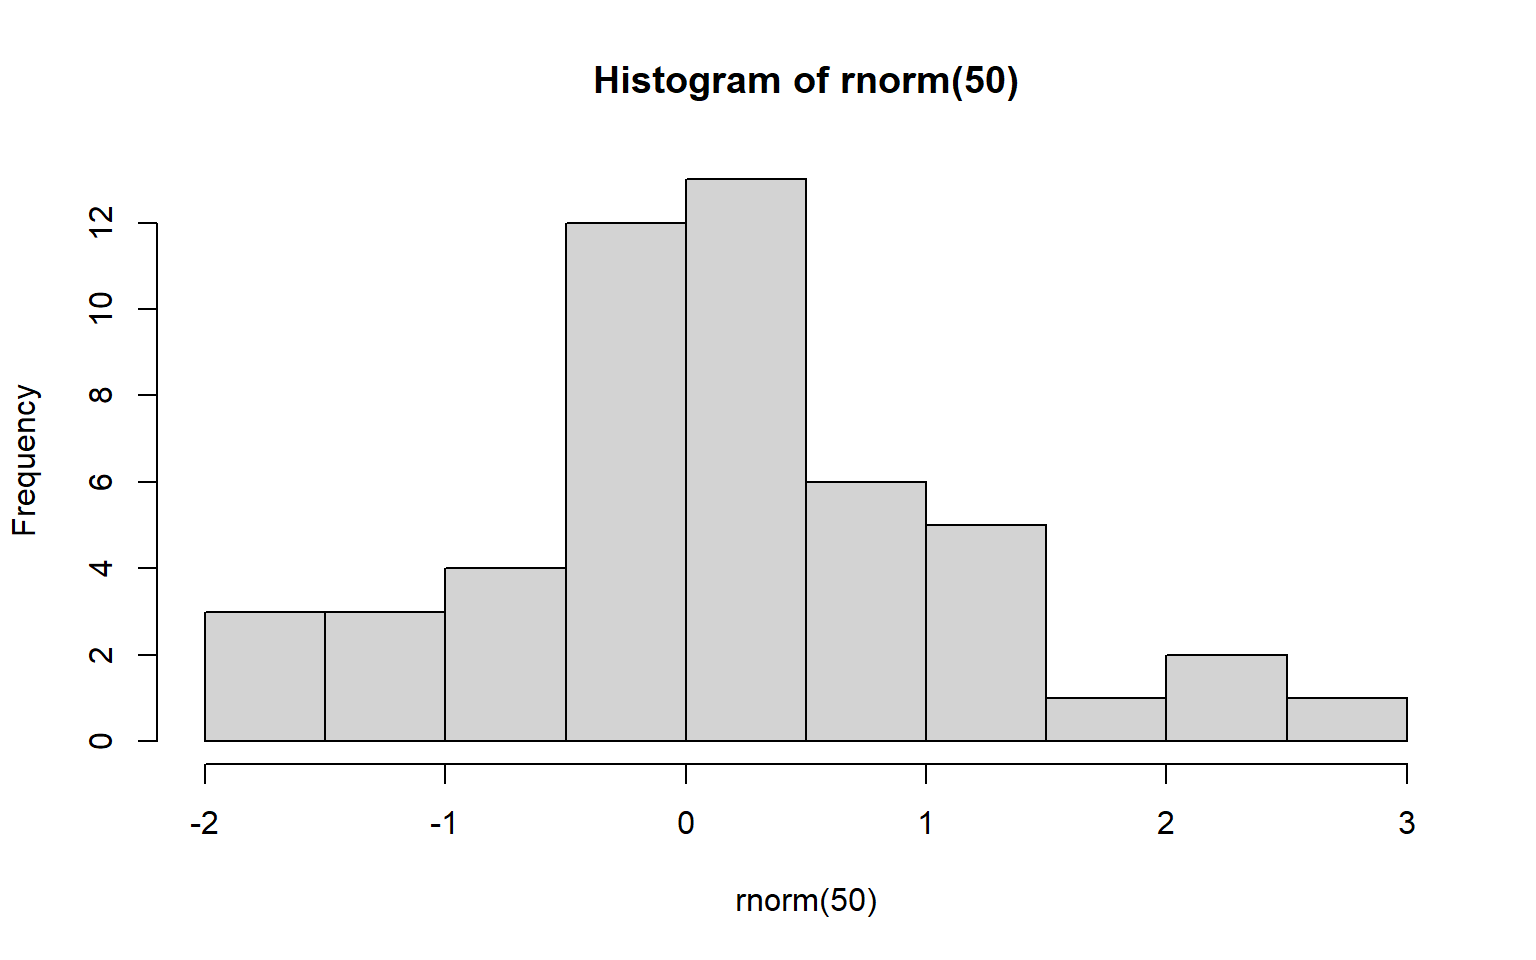
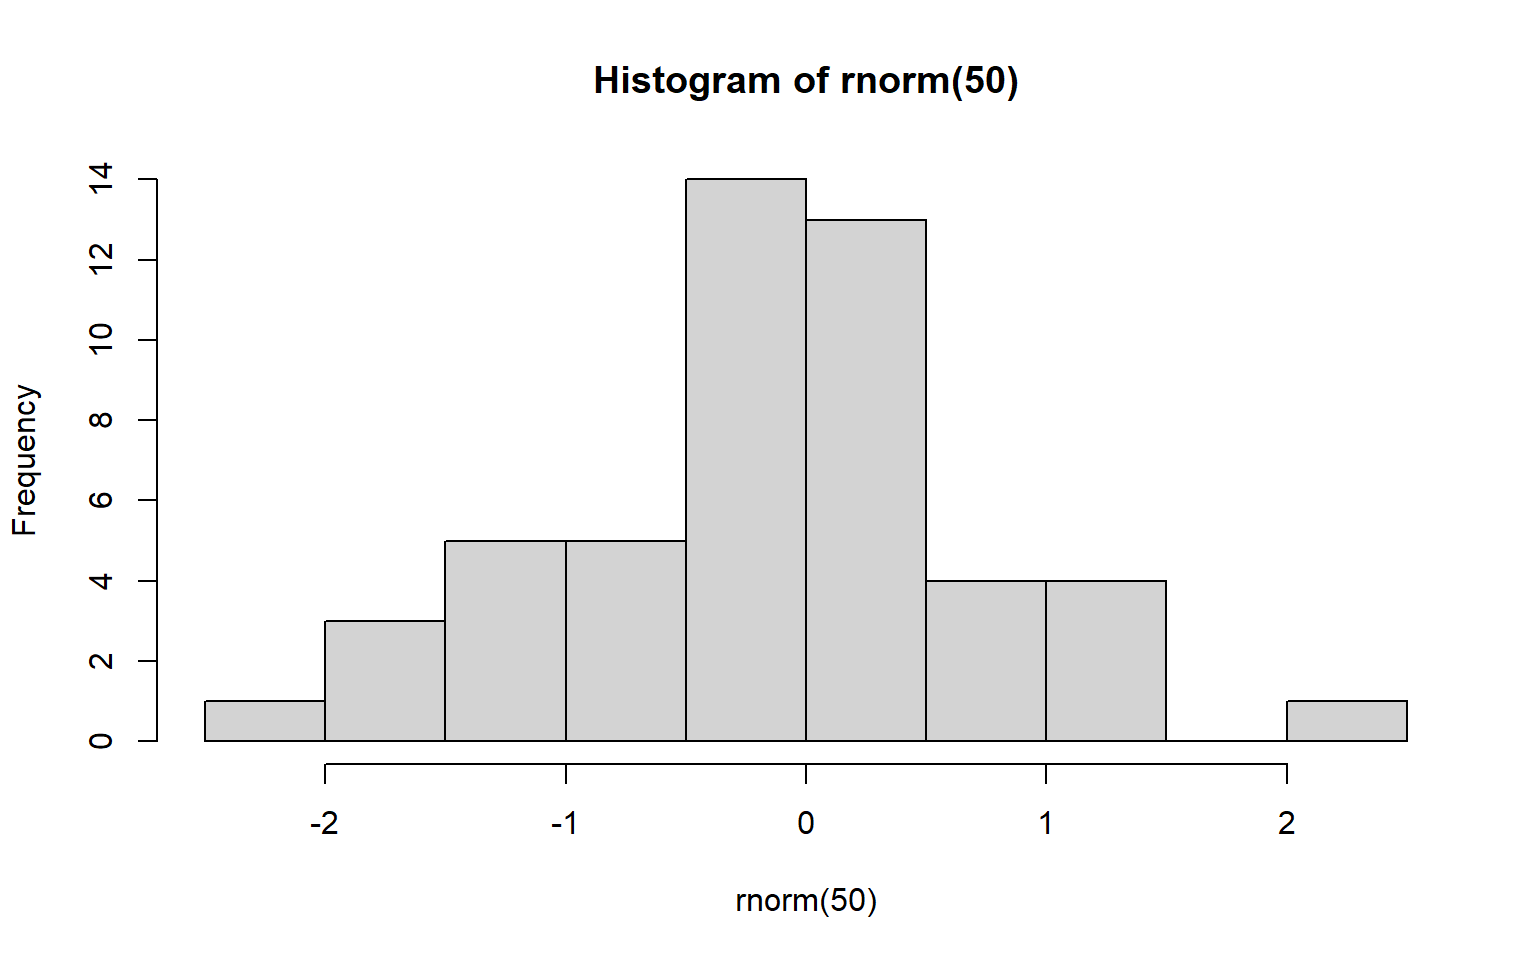
updated

diff --git a/docs/07-chap7.html b/docs/07-chap7.html
@@ -215,9 +215,10 @@ window.Quarto = {
    
   <ul class="collapse">
   <li><a href="#random-versus-nonrandom-sampling" id="toc-random-versus-nonrandom-sampling" class="nav-link active" data-scroll-target="#random-versus-nonrandom-sampling"><span class="header-section-number">7.1</span> Random versus Nonrandom Sampling</a></li>
-  <li><a href="#random-sampling-techniques" id="toc-random-sampling-techniques" class="nav-link" data-scroll-target="#random-sampling-techniques"><span class="header-section-number">7.2</span> Random Sampling Techniques</a></li>
-  <li><a href="#nonrandom-sampling-techniques" id="toc-nonrandom-sampling-techniques" class="nav-link" data-scroll-target="#nonrandom-sampling-techniques"><span class="header-section-number">7.3</span> Nonrandom Sampling Techniques</a></li>
-  <li><a href="#sampling-error-vs-nonsampling-error" id="toc-sampling-error-vs-nonsampling-error" class="nav-link" data-scroll-target="#sampling-error-vs-nonsampling-error"><span class="header-section-number">7.4</span> Sampling Error vs Nonsampling error</a></li>
+  <li><a href="#sampling-frame" id="toc-sampling-frame" class="nav-link" data-scroll-target="#sampling-frame"><span class="header-section-number">7.2</span> Sampling Frame</a></li>
+  <li><a href="#random-sampling-techniques" id="toc-random-sampling-techniques" class="nav-link" data-scroll-target="#random-sampling-techniques"><span class="header-section-number">7.3</span> Random Sampling Techniques</a></li>
+  <li><a href="#nonrandom-sampling-techniques" id="toc-nonrandom-sampling-techniques" class="nav-link" data-scroll-target="#nonrandom-sampling-techniques"><span class="header-section-number">7.4</span> Nonrandom Sampling Techniques</a></li>
+  <li><a href="#sampling-error-vs-nonsampling-error" id="toc-sampling-error-vs-nonsampling-error" class="nav-link" data-scroll-target="#sampling-error-vs-nonsampling-error"><span class="header-section-number">7.5</span> Sampling Error vs Nonsampling error</a></li>
   </ul>
 </nav>
     </div>
@@ -243,13 +244,18 @@ window.Quarto = {
 </header>
 
 
+<p><img src="ip7.png" class="img-fluid"></p>
 <section id="random-versus-nonrandom-sampling" class="level2" data-number="7.1">
 <h2 data-number="7.1" class="anchored" data-anchor-id="random-versus-nonrandom-sampling"><span class="header-section-number">7.1</span> Random versus Nonrandom Sampling</h2>
 <p>Random sampling: A sampling method in which every unit of population has a known probability of being selected for the sample,</p>
 <p>Nonrandom sampling: A sampling method in which every unit of the population has unkown probability of being selected for the sample.</p>
 </section>
-<section id="random-sampling-techniques" class="level2" data-number="7.2">
-<h2 data-number="7.2" class="anchored" data-anchor-id="random-sampling-techniques"><span class="header-section-number">7.2</span> Random Sampling Techniques</h2>
+<section id="sampling-frame" class="level2" data-number="7.2">
+<h2 data-number="7.2" class="anchored" data-anchor-id="sampling-frame"><span class="header-section-number">7.2</span> Sampling Frame</h2>
+<p>A list of the items or people forming a population from which a sample is taken.</p>
+</section>
+<section id="random-sampling-techniques" class="level2" data-number="7.3">
+<h2 data-number="7.3" class="anchored" data-anchor-id="random-sampling-techniques"><span class="header-section-number">7.3</span> Random Sampling Techniques</h2>
 <section id="simple-random-sampling" class="level3">
 <h3 class="anchored" data-anchor-id="simple-random-sampling">Simple random sampling</h3>
 <ul>
@@ -300,6 +306,15 @@ window.Quarto = {
 <li><p>Randomly select a starting point between <span class="math inline">1</span> and <span class="math inline">k</span>.</p></li>
 <li><p>Select every <span class="math inline">k</span>-th individual thereafter until the sample size <span class="math inline">n</span> is reached.</p></li>
 </ul>
+<p><strong>Example</strong></p>
+<p>A researcher wants to estimate the average wheat yield in a large farm that has 1,000 wheat plots.</p>
+<p>Steps using systematic sampling:</p>
+<p>Determine sample size: Suppose the researcher wants to sample 50 plots.</p>
+<p>Calculate the sampling interval <span class="math inline">k</span></p>
+<p><span class="math display">k = \frac{ \text{Total&nbsp;number&nbsp;of&nbsp;plots}}{\text{Sample ize}} = \frac{1000}{50} = 20</span></p>
+<p>Randomly select a starting point from 1 to <span class="math inline">k</span>: For example, randomly pick plot number 7 as the starting plot.</p>
+<p>Select every k-th plot: From the starting plot, select every 20th plot: plot 7, plot 27, plot 47, plot 67, … up to 50 plots.</p>
+<p>Collect data: Measure the yield from each selected plot.</p>
 </section>
 <section id="cluster-sampling" class="level3">
 <h3 class="anchored" data-anchor-id="cluster-sampling">Cluster sampling</h3>
@@ -316,8 +331,8 @@ window.Quarto = {
 </ul>
 </section>
 </section>
-<section id="nonrandom-sampling-techniques" class="level2" data-number="7.3">
-<h2 data-number="7.3" class="anchored" data-anchor-id="nonrandom-sampling-techniques"><span class="header-section-number">7.3</span> Nonrandom Sampling Techniques</h2>
+<section id="nonrandom-sampling-techniques" class="level2" data-number="7.4">
+<h2 data-number="7.4" class="anchored" data-anchor-id="nonrandom-sampling-techniques"><span class="header-section-number">7.4</span> Nonrandom Sampling Techniques</h2>
 <section id="covenience-sampling" class="level3">
 <h3 class="anchored" data-anchor-id="covenience-sampling">Covenience sampling</h3>
 <p>Samples are selected based on ease of access or availability.</p>
@@ -362,8 +377,8 @@ window.Quarto = {
 <p>A researcher studying rare medical conditions starts with a few patients at a clinic. Each patient refers other patients they know who have the condition, and the process continues until enough participants are recruited.</p>
 </section>
 </section>
-<section id="sampling-error-vs-nonsampling-error" class="level2" data-number="7.4">
-<h2 data-number="7.4" class="anchored" data-anchor-id="sampling-error-vs-nonsampling-error"><span class="header-section-number">7.4</span> Sampling Error vs Nonsampling error</h2>
+<section id="sampling-error-vs-nonsampling-error" class="level2" data-number="7.5">
+<h2 data-number="7.5" class="anchored" data-anchor-id="sampling-error-vs-nonsampling-error"><span class="header-section-number">7.5</span> Sampling Error vs Nonsampling error</h2>
 <p>Sampling error is the difference between a sample and the population it represents, often due to an inadequate sample size and can be reduced by increasing the sample size.</p>
 <p>Non-sampling error, on the other hand, includes all other mistakes in a study, such as data entry mistakes, poorly worded questions, or faulty data collection methods.</p>
 

diff --git a/docs/03-chap3.html b/docs/03-chap3.html
@@ -318,15 +318,15 @@ pre > code.sourceCode > span > a:first-child::before { text-decoration: underlin
 <div class="cell">
 <div class="sourceCode" id="cb8"><pre class="downlit sourceCode r code-with-copy"><code class="sourceCode R"><span><span class="fu"><a href="https://rdrr.io/r/stats/Normal.html">rnorm</a></span><span class="op">(</span><span class="fl">50</span><span class="op">)</span></span></code><button title="Copy to Clipboard" class="code-copy-button"><i class="bi"></i></button></pre></div>
 <div class="cell-output cell-output-stdout">
-<pre><code> [1] -0.97355659 -0.95267595  0.64257840  0.37743361  0.07265227 -0.27996604
- [7] -2.43090547  0.18881608 -0.98012499 -1.35061118  1.89433985 -0.75297003
-[13]  0.22162781  0.95296737  0.59005391 -2.19757219  0.37162943 -0.55183275
-[19] -1.73417671  0.31964139  0.77062801  1.72552268  0.85222879  0.17304018
-[25] -0.74479478  0.91960570  1.29014834 -1.04520416  0.76150078 -0.26536291
-[31] -0.29047205 -0.11431114  1.11572106  0.25243905  2.46947988 -0.28391234
-[37] -0.43476867  1.51822495 -0.05613402  0.62636547  1.08826624  0.24159531
-[43] -0.73022783 -1.08878481 -0.56569457 -1.32658939  1.16179371 -0.02632283
-[49] -0.16479319  0.07276194</code></pre>
+<pre><code> [1] -0.74409950 -0.17921796  0.19362911 -0.14364629  0.85270201 -1.23643088
+ [7] -1.07290334 -1.84220030 -0.84496517 -1.71271672 -0.42607343 -0.50145497
+[13]  0.27022738 -1.19783044 -1.78816324  0.72647323  0.55805157 -0.53158711
+[19] -0.37193237  0.88354388  1.62588857 -0.18260705 -1.85780294 -1.05509965
+[25] -0.67096630 -0.81112988  0.15860594  1.50108969  0.07475236 -0.93563920
+[31]  2.59578558  0.72917822  1.17100119 -0.66115717  0.18531833  1.01763765
+[37]  1.05675318 -0.65058664  0.85367979 -0.43962533 -0.19062557 -0.03622597
+[43]  0.82070535 -0.52933669 -0.13358989 -0.59220271  1.34427748 -0.69300437
+[49] -0.53576453  0.71450407</code></pre>
 </div>
 </div>
 <div class="cell">
